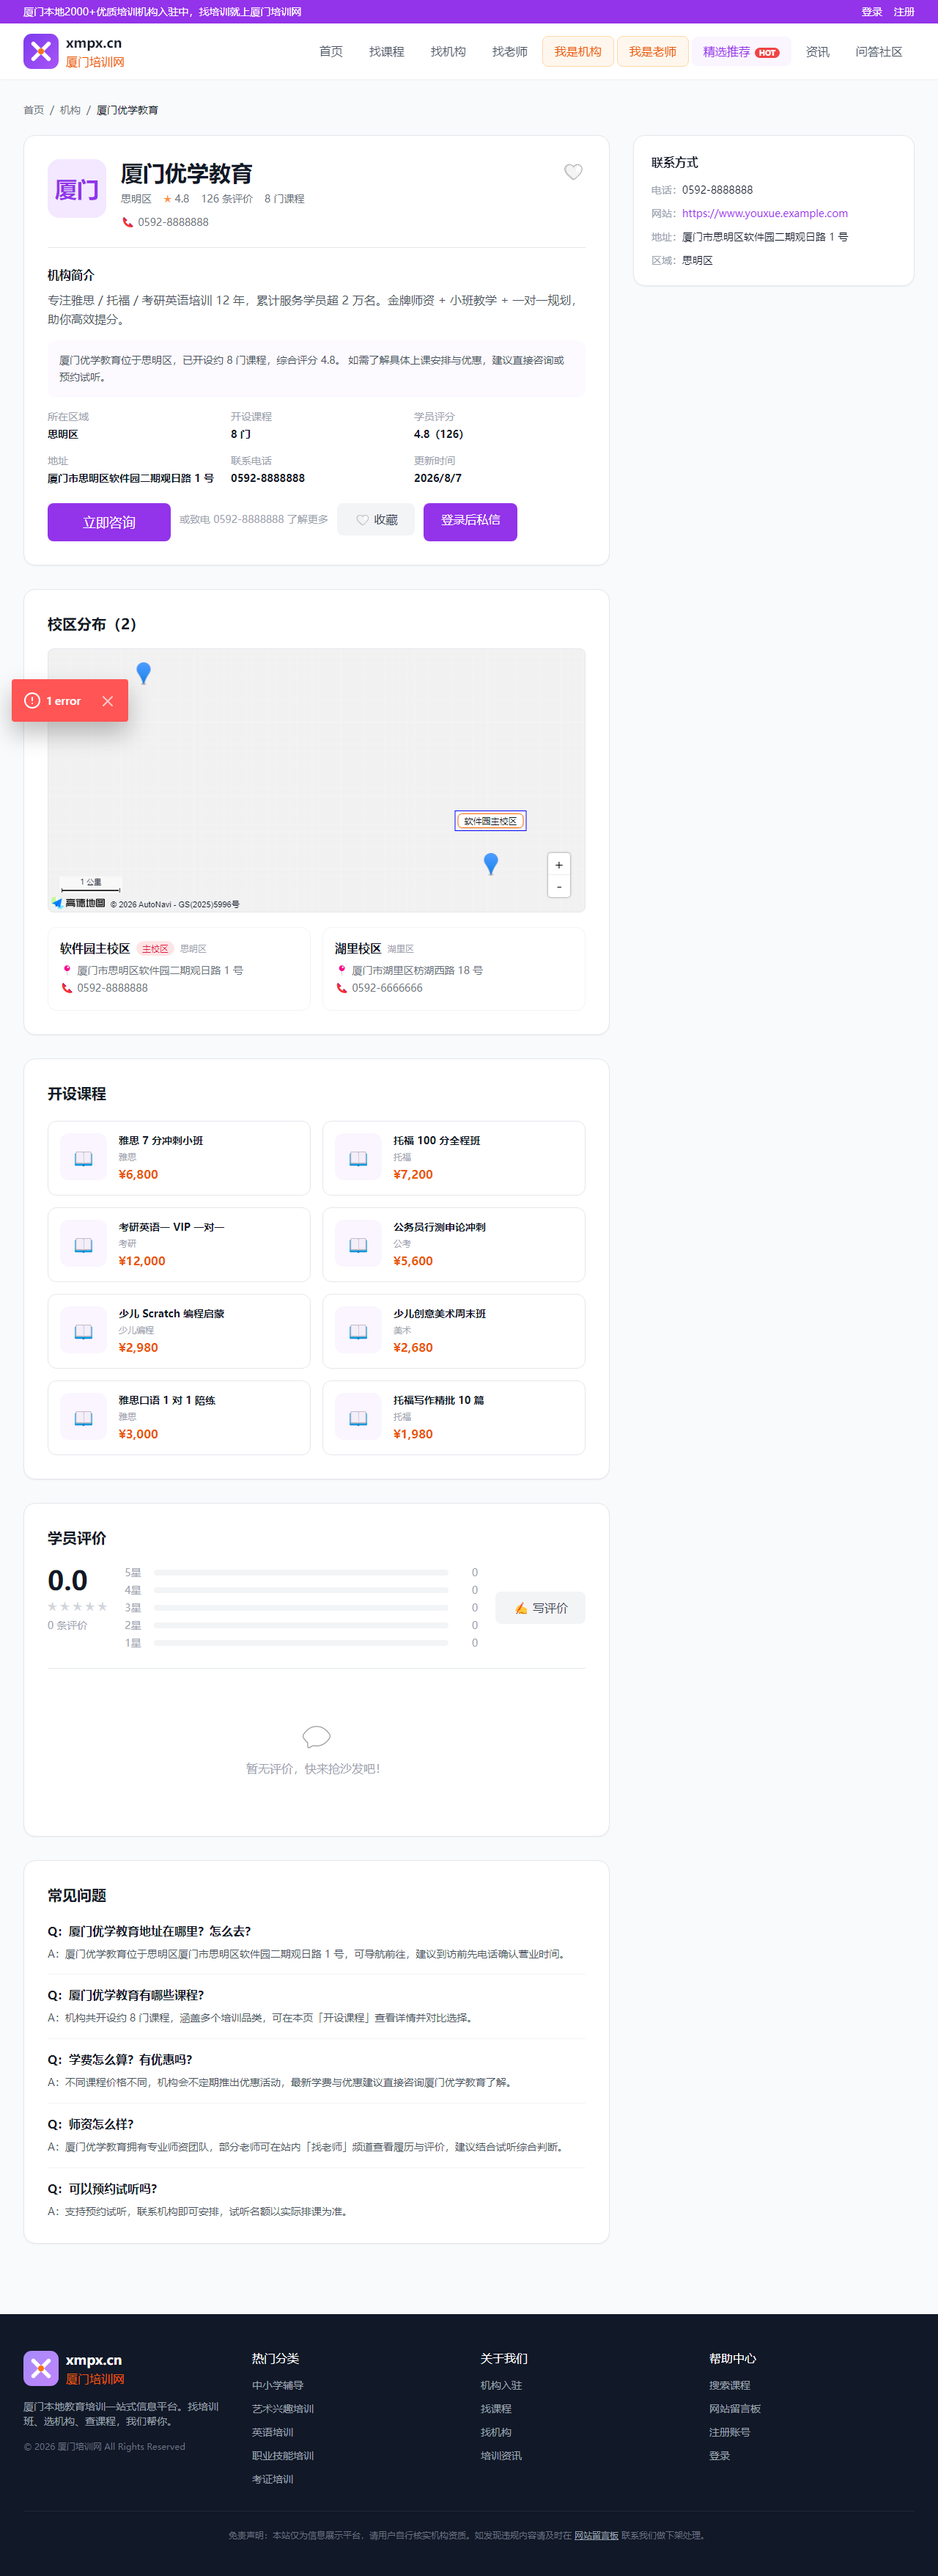
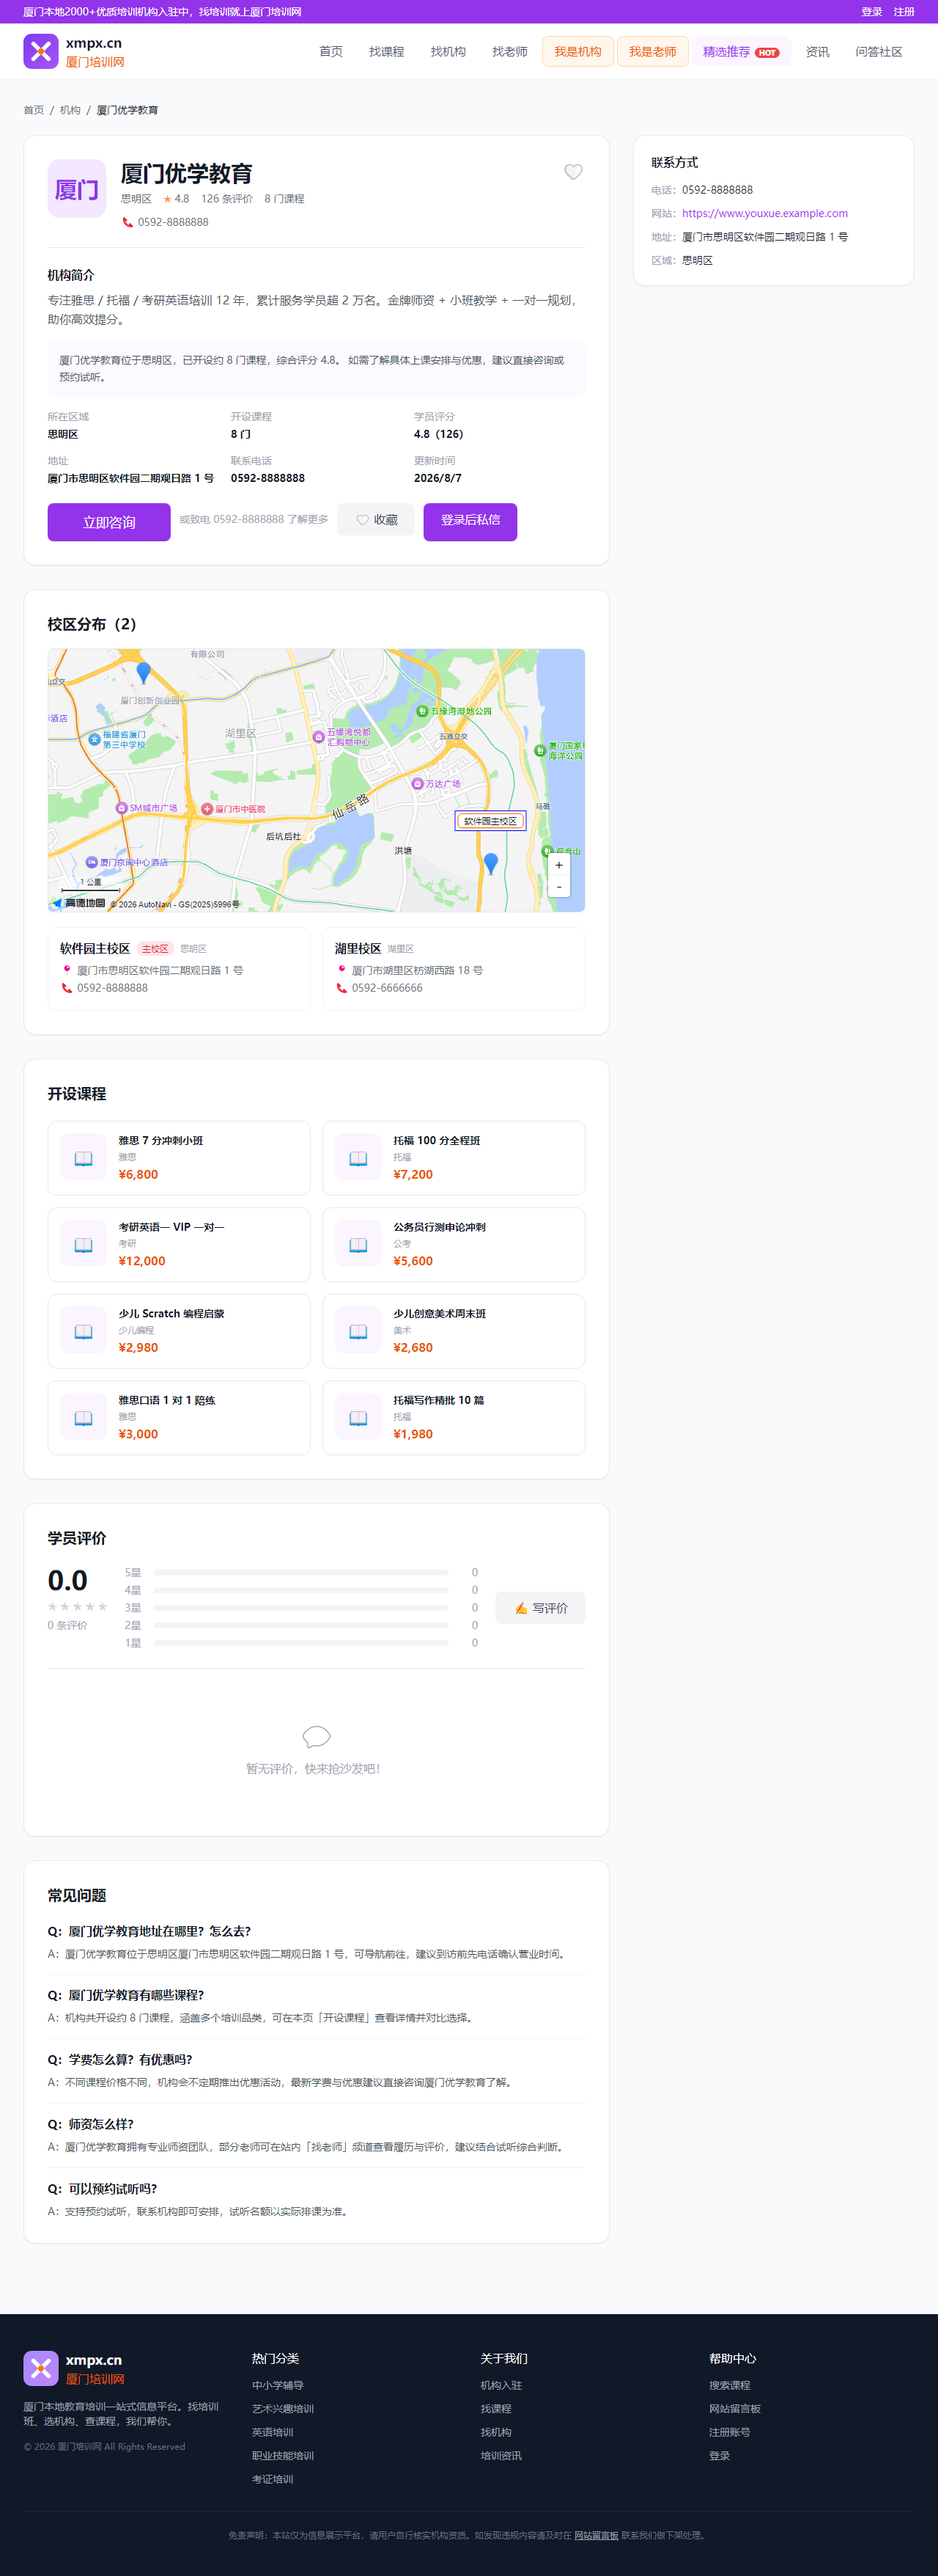
fix: 修复 Hydration 错误 + 地图瓦片空白 + 更新机构截图
- layout.tsx: TTZ/Clarity 脚本从 beforeInteractive 改为 afterInteractive，
  消除 <script> cannot be a child of <html> hydration mismatch
- InstitutionsMapPanel.tsx / institutions/[id]/page.tsx: AMapMap 改为
  dynamic(() => import(...), { ssr: false }) 延迟加载，避免 SSR 注入差异
- AMapMap.tsx: 强制 viewMode 2D(Canvas2D) + mapStyle normal，修复瓦片不加载
- shoot-map.cjs: 截图脚本改用本地环境（已加高德白名单），增加地图容器等待逻辑
- org-public.png / teacher-public.png: 重截含完整地图瓦片的截图替换旧图

Changed region(s): [[0.0, 0.2483, 0.625, 0.3724], [0.4688, 0.3414, 0.5, 0.3724]]

diff --git a/src/app/layout.tsx b/src/app/layout.tsx
@@ -74,18 +74,18 @@ export default function RootLayout({
 }>) {
   return (
     <html lang="zh-CN">
-      {/* 字节跳动（抖音/头条搜索）自动收录脚本 */}
+      {/* 字节跳动（抖音/头条搜索）自动收录脚本 — afterInteractive 避免 hydration mismatch */}
       <Script
         id="ttzz"
-        strategy="beforeInteractive"
+        strategy="afterInteractive"
         dangerouslySetInnerHTML={{
           __html: `(function(){var el=document.createElement("script");el.src="https://lf1-cdn-tos.bytegoofy.com/goofy/ttzz/push.js?6a6aea4419cd60cad4aa86de155154eec9c7fcb5b0f7cc19838651853541c70e19d1c501ebd3301f5e2290626f5b53d078c8250527fa0dfd9783a026ff3cf719";el.id="ttzz";var s=document.getElementsByTagName("script")[0];s.parentNode.insertBefore(el,s);})(window)`,
         }}
       />
-      {/* Microsoft Clarity 热力图 / 行为分析 */}
+      {/* Microsoft Clarity 热力图 / 行为分析 — afterInteractive 避免 hydration mismatch */}
       <Script
         id="ms-clarity"
-        strategy="beforeInteractive"
+        strategy="afterInteractive"
         dangerouslySetInnerHTML={{
           __html: `(function(c,l,a,r,i,t,y){c[a]=c[a]||function(){(c[a].q=c[a].q||[]).push(arguments)};t=l.createElement(r);t.async=1;t.src="https://www.clarity.ms/tag/"+i;y=l.getElementsByTagName(r)[0];y.parentNode.insertBefore(t,y);})(window,document,"clarity","script","xrh3evz7uo");`,
         }}

diff --git a/src/app/institutions/[id]/page.tsx b/src/app/institutions/[id]/page.tsx
@@ -10,10 +10,21 @@ import ReviewList from "@/components/ReviewList";
 import MessageButton from "@/components/MessageButton";
 import { SITE_URL } from "@/lib/constants";
 import JsonLd from "@/components/seo/JsonLd";
-import AMapMap, { type MapPoint } from "@/components/map/AMapMap";
+import dynamic from "next/dynamic";
+import type { MapPoint } from "@/components/map/AMapMap";
 import { breadcrumbLd } from "@/lib/seo";
 import Faq from "@/components/seo/Faq";
 import { getInstitutionFaqs } from "@/lib/faq";
+
+// ssr: false 避免高德 JS API 注入 <script> 导致 hydration mismatch
+const AMapMap = dynamic(() => import("@/components/map/AMapMap").then((m) => m.default), {
+  ssr: false,
+  loading: () => (
+    <div className="rounded-lg border border-gray-200 bg-gray-50 flex items-center justify-center text-sm text-gray-400" style={{ height: 360 }}>
+      地图加载中…
+    </div>
+  ),
+});
 
 export const revalidate = 60; // ISR: 避免每次请求连远程 Turso 超时
 

diff --git a/src/components/map/AMapMap.tsx b/src/components/map/AMapMap.tsx
@@ -72,11 +72,19 @@ export default function AMapMap({
         const map = new AMap.Map(containerRef.current, {
           zoom,
           center: [c.lng, c.lat],
-          viewMode: "2D",
+          viewMode: "2D",        // Canvas2D 渲染器，瓦片加载比 3D(WebGL) 更稳定
+          mapStyle: "amap://styles/normal",  // 强制标准样式
         });
         map.addControl(new AMap.Scale());
         map.addControl(new AMap.ToolBar());
         mapRef.current = map;
+        // 延迟 resize：确保容器已挂载且有实际尺寸后再触发瓦片重绘
+        requestAnimationFrame(() => {
+          try { map.resize(); } catch { /* ignore */ }
+        });
+        // 监听瓦片加载状态，方便调试
+        map.on("complete", () => console.log("[AMap] 瓦片加载完成"));
+        map.on("mapmoveend", () => {});
         drawMarkers(AMap, map, validPoints, onMarkerClick);
       })
       .catch((e) => setErr(e?.message || "地图加载失败"));

diff --git a/src/components/institutions/InstitutionsMapPanel.tsx b/src/components/institutions/InstitutionsMapPanel.tsx
@@ -2,9 +2,20 @@
 "use client";
 
 import { useEffect, useRef, useState } from "react";
+import dynamic from "next/dynamic";
 import Link from "next/link";
-import AMapMap, { type MapPoint } from "@/components/map/AMapMap";
 import { DISTRICTS } from "@/lib/utils";
+import type { MapPoint } from "@/components/map/AMapMap";
+
+// 用 ssr: false 延迟加载地图组件，避免高德 JS API 注入 <script> 导致 hydration mismatch
+const AMapMap = dynamic(() => import("@/components/map/AMapMap").then((m) => m.default), {
+  ssr: false,
+  loading: () => (
+    <div className="rounded-lg border border-gray-200 bg-gray-50 flex items-center justify-center text-sm text-gray-400" style={{ height: 420 }}>
+      地图加载中…
+    </div>
+  ),
+});
 
 interface CampusDTO {
   id: string;
